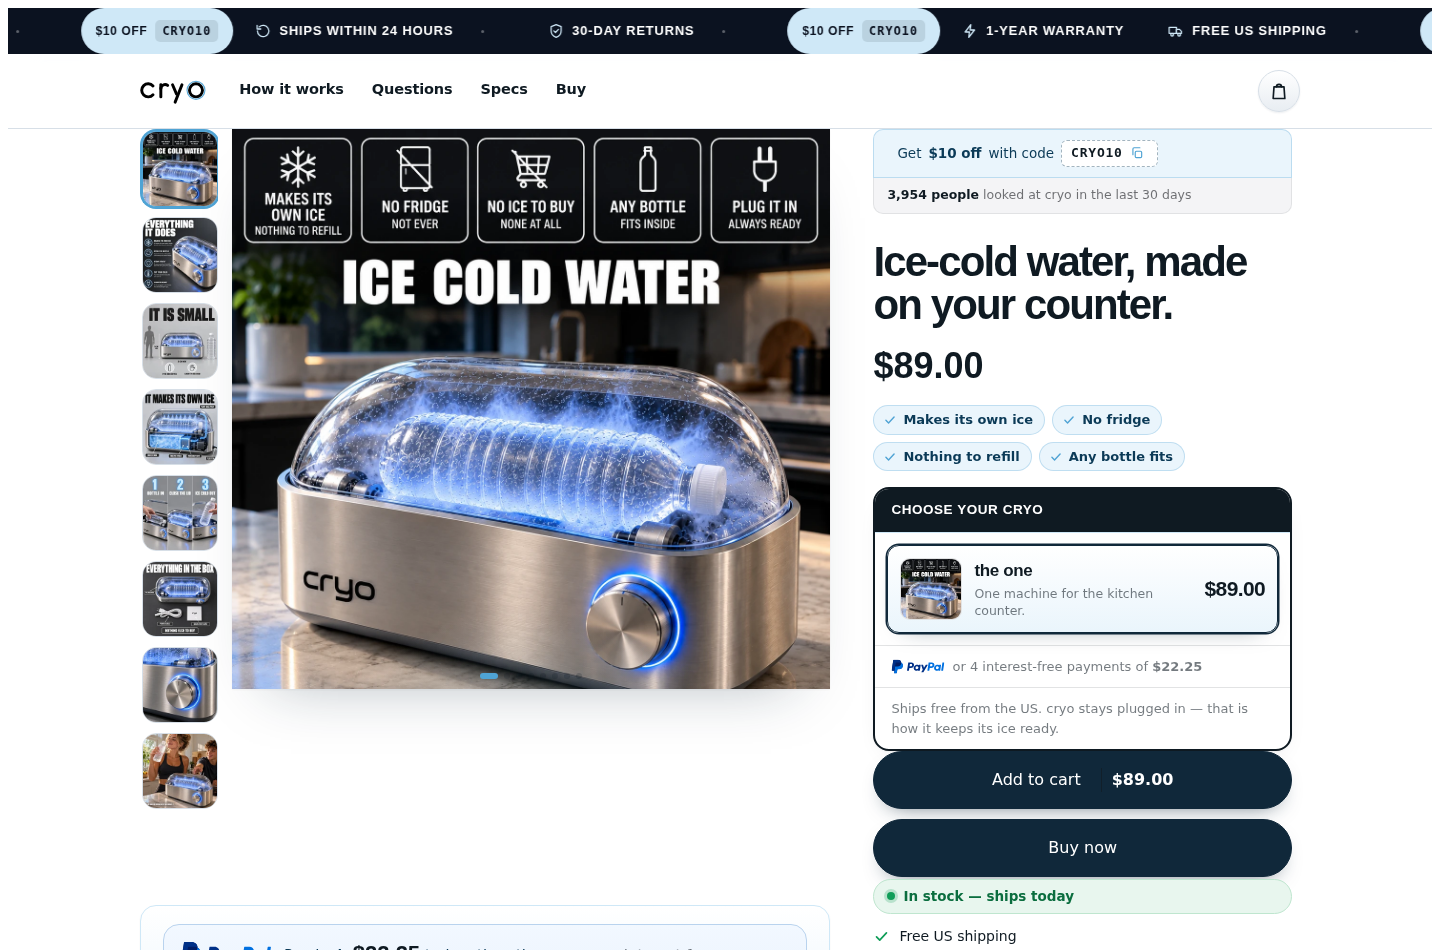
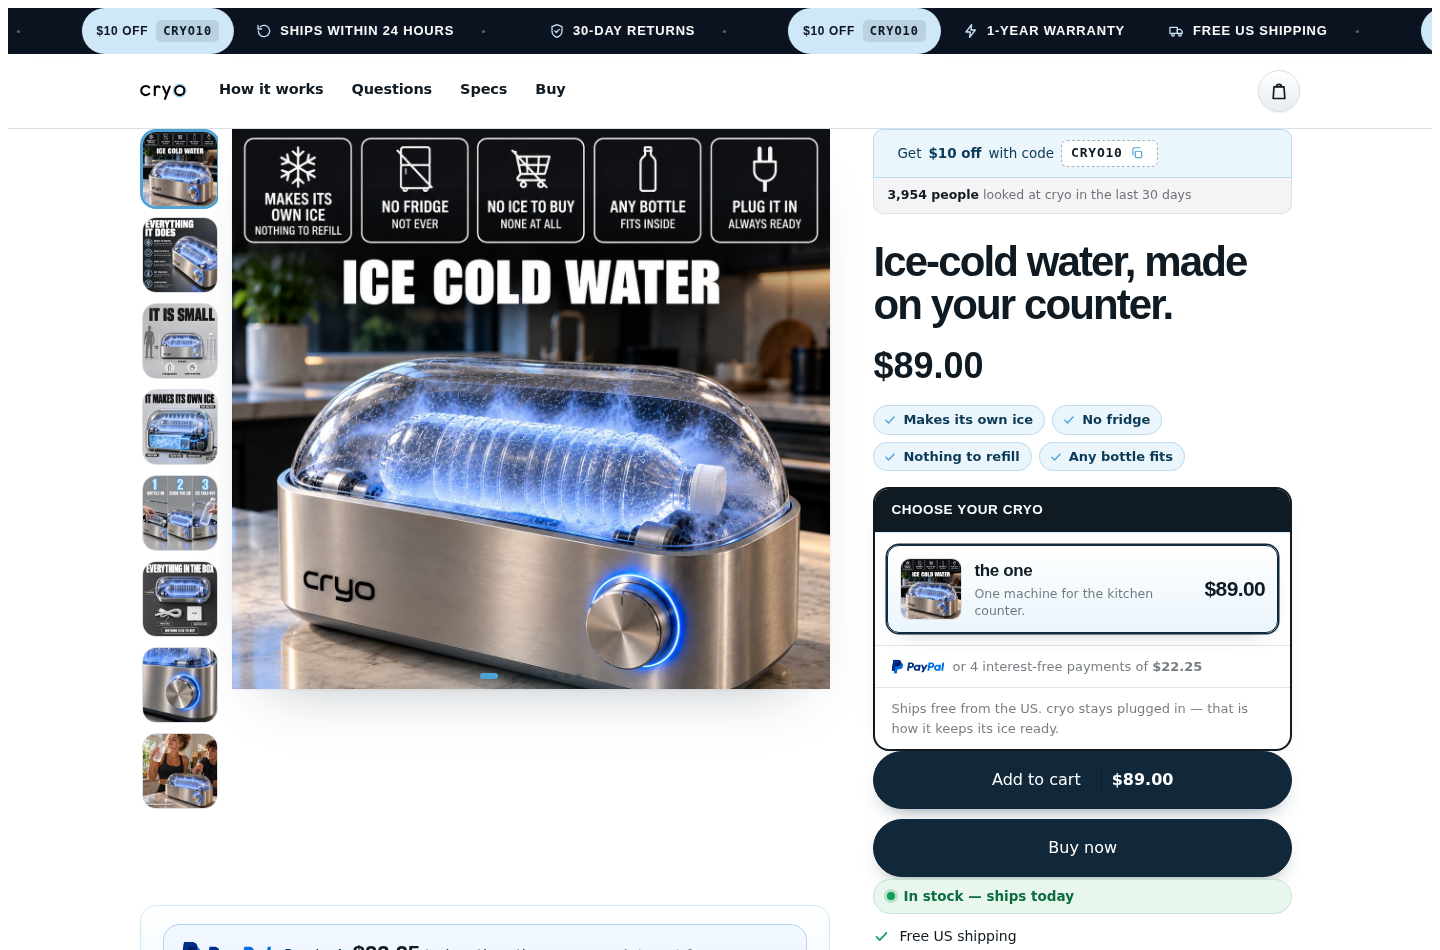
cryo: a smaller mark
A wordmark is a signature, not a headline. At 34px it was competing with the
navigation beside it instead of sitting behind it. 24px in the header, and the
closing block and the footer scaled to match.

Claude-Session: https://claude.ai/code/session_0181L2kuKeioRLEVYRzeLmhY

diff --git a/app/storefronts/cryo/theme.css b/app/storefronts/cryo/theme.css
@@ -2461,7 +2461,13 @@ body:has(.cy-drawer.is-open) .cy-buy__side .cy-wallet { visibility: hidden; }
   border-bottom: 1px solid var(--silver-2);
   box-shadow: 0 1px 0 rgba(255,255,255,.7) inset;
 }
-.cy .cy-logo img { height: 34px; }
+/* Smaller. A wordmark is a signature, not a headline — at 34px it was
+   competing with the nav beside it instead of sitting behind it. */
+.cy .cy-logo img { height: 24px; }
+.cy .cy-close img { height: 38px; margin-bottom: 18px; }
+.cy .cy-last__logo { height: 36px; margin-bottom: 18px; }
+.cy .cy-footer__brand img { height: 26px; width: auto; }
+@media (max-width: 880px) { .cy .cy-logo img { height: 21px; } }
 .cy .cy-nav a {
   font-weight: 600; font-size: 14.5px; letter-spacing: -0.01em;
   padding: 7px 2px; border-bottom: 2px solid transparent;
